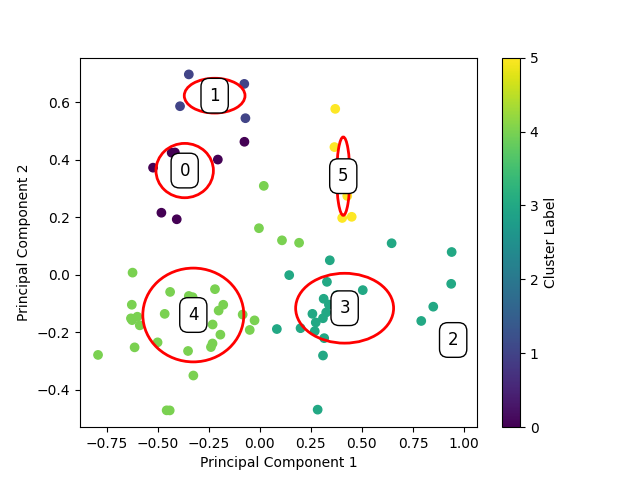
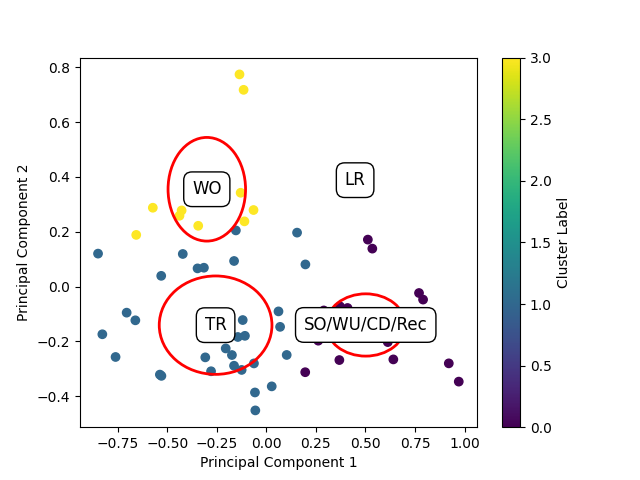
Results

diff --git a/util/plot.py b/util/plot.py
@@ -5,6 +5,7 @@ import numpy as np
 import pandas as pd
 
 from config import Config
+from util.mapRun import mapLabelToPlotName
 
 
 def plotParallelCoordinates(data, clusters, path=None):
@@ -107,7 +108,7 @@ def plotClusters2d(data, clusters, path=None):
         ax.text(
             center[0],
             center[1],
-            str(cluster),
+            str(mapLabelToPlotName(cluster, "tiered" in path if path else False)),
             color="black",
             fontsize=12,
             ha="center",
